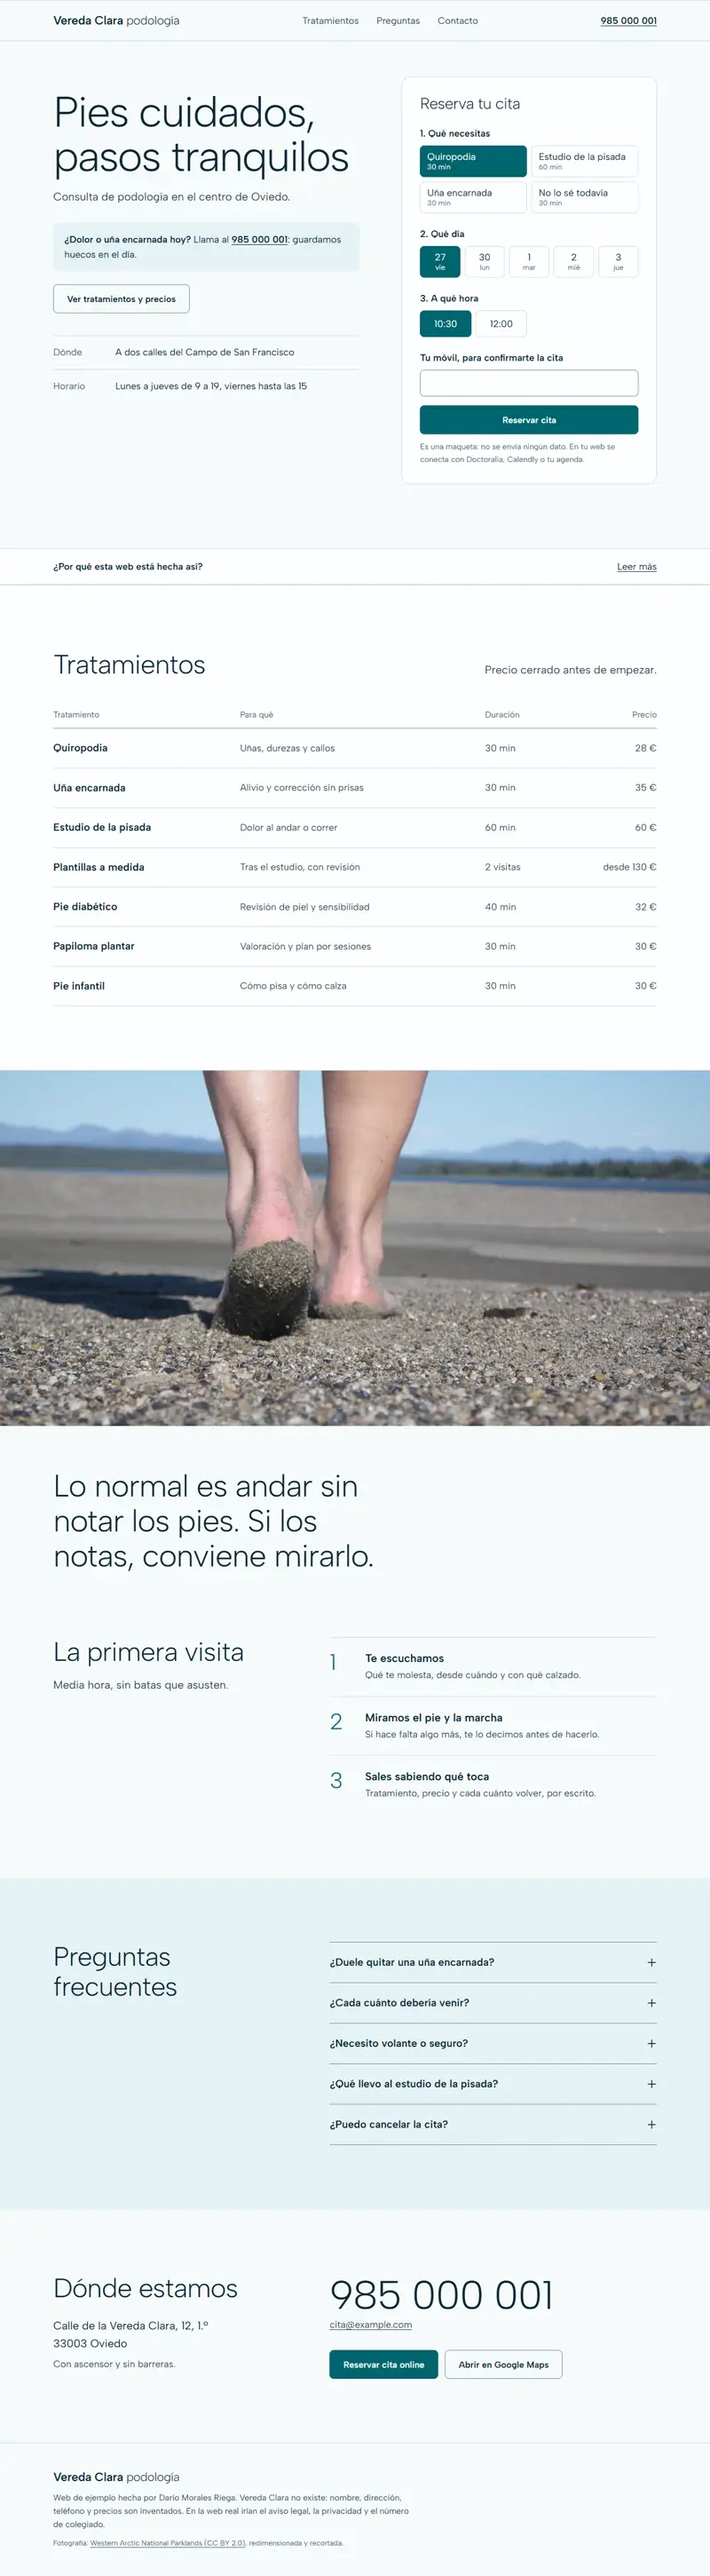
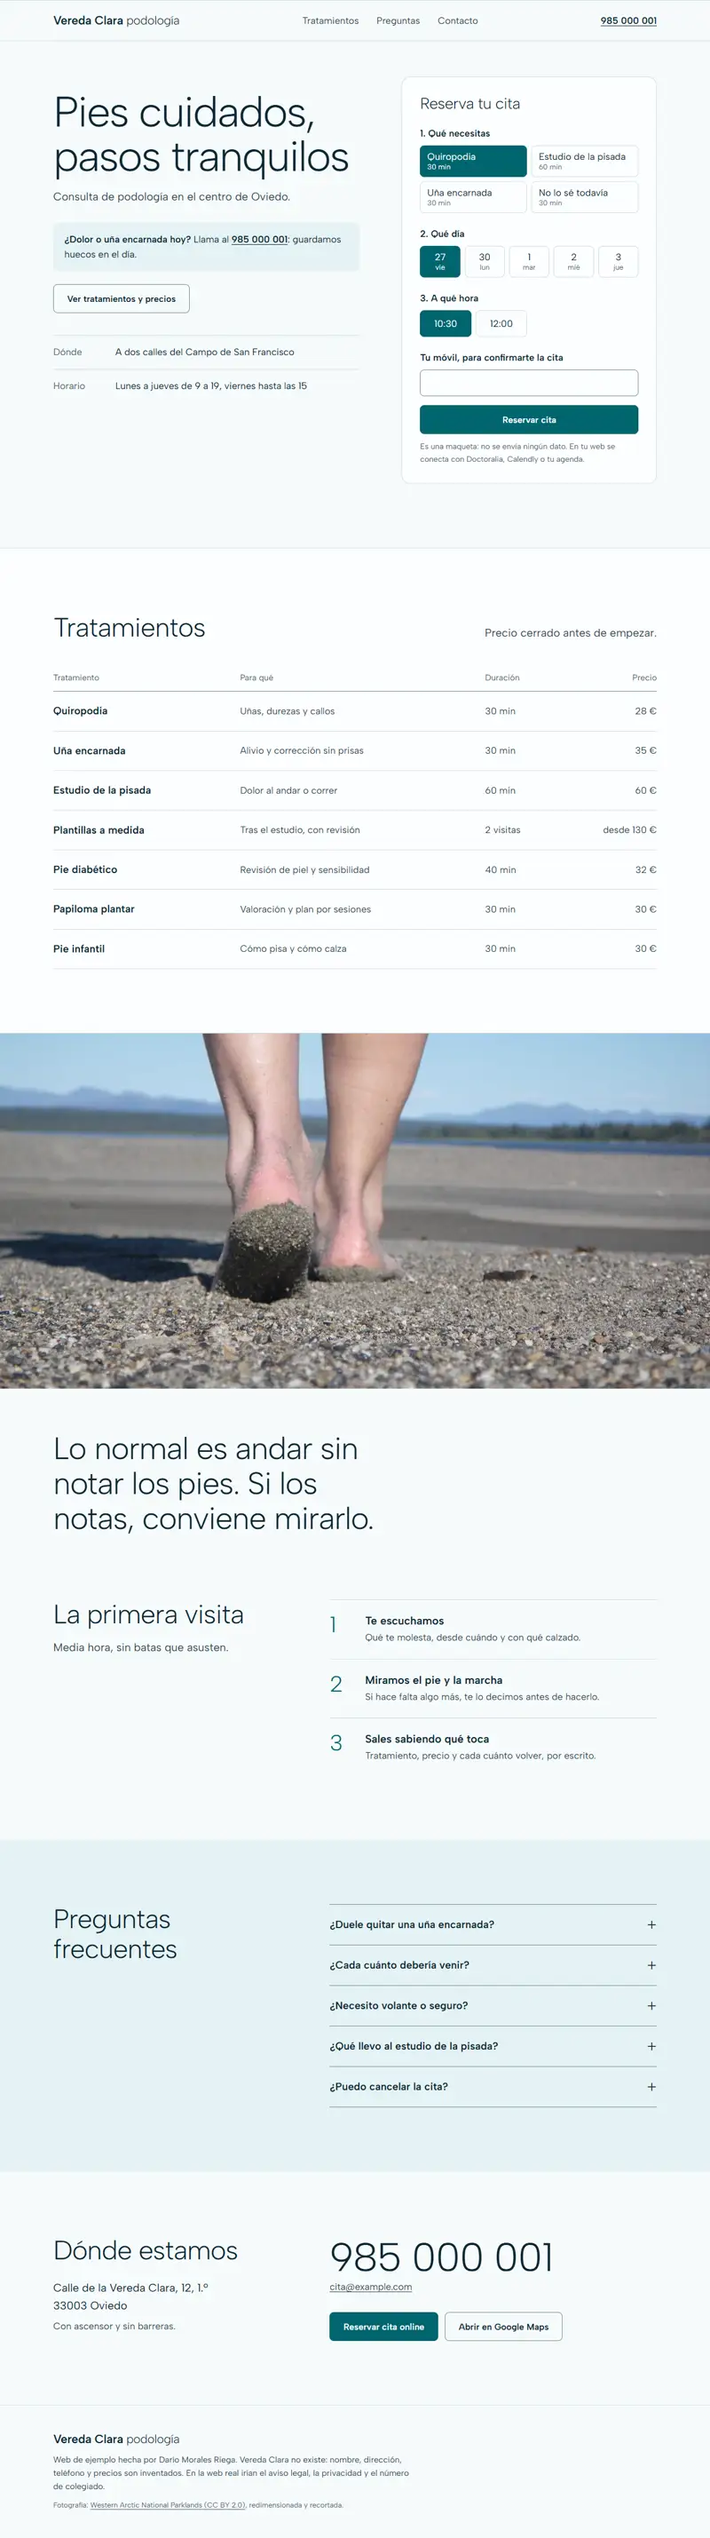
Publicar webs de ejemplo

diff --git a/index.html b/index.html
@@ -7,7 +7,7 @@
   <meta name="description" content="Diseño de páginas web en Oviedo para clínicas, consultas, reformas y otros negocios de Asturias. Trato directo con Darío Morales Riega. Mira tres ejemplos.">
   <link rel="canonical" href="https://dariodmr14.github.io/webs-ejemplos/">
   <script type="application/ld+json">
-  {"@context":"https://schema.org","@type":"Person","name":"Darío Morales Riega","jobTitle":"Diseño y desarrollo web","url":"https://dariodmr14.github.io/webs-ejemplos/","email":"mailto:dariodmr14@gmail.com","sameAs":["https://www.linkedin.com/in/dario-morales-riega"],"address":{"@type":"PostalAddress","addressLocality":"Oviedo","addressRegion":"Asturias","addressCountry":"ES"}}
+  {"@context":"https://schema.org","@type":"Person","name":"Darío Morales Riega","jobTitle":"Diseño y desarrollo web","image":"https://dariodmr14.github.io/webs-ejemplos/img/dario-528.webp","url":"https://dariodmr14.github.io/webs-ejemplos/","email":"mailto:dariodmr14@gmail.com","sameAs":["https://www.linkedin.com/in/dario-morales-riega"],"address":{"@type":"PostalAddress","addressLocality":"Oviedo","addressRegion":"Asturias","addressCountry":"ES"}}
   </script>
   <meta property="og:type" content="website">
   <meta property="og:locale" content="es_ES">
@@ -22,7 +22,13 @@
 <body>
   <a class="skip" href="#ejemplos">Saltar a los ejemplos</a>
   <header class="wrap top">
-    <p class="name">Darío Morales Riega</p>
+    <div class="me">
+      <img src="img/dario-176.webp" srcset="img/dario-176.webp 176w, img/dario-352.webp 352w, img/dario-528.webp 528w" sizes="(min-width: 40rem) 96px, 72px" width="96" height="96" alt="Foto de Darío Morales Riega" fetchpriority="high">
+      <div>
+        <p class="name">Darío Morales Riega</p>
+        <p class="role">Estudiante de Ingeniería Informática en Oviedo. Hago webs para negocios de Asturias.</p>
+      </div>
+    </div>
     <nav aria-label="Contacto">
       <a class="btn btn--line" href="https://www.linkedin.com/in/dario-morales-riega" target="_blank" rel="noopener">Mi LinkedIn</a>
       <a class="btn" href="mailto:dariodmr14@gmail.com?subject=Web%20para%20mi%20negocio">Contactar</a>
@@ -37,7 +43,7 @@
           <span class="line"><span>negocios</span></span>
           <span class="line"><span>de <em>Asturias</em></span></span>
         </h1>
-        <p class="lead">Soy Darío, de Oviedo. Hago webs a medida para que quien te busca acabe llamándote.</p>
+        <p class="lead">Hechas a medida, para que quien te busca acabe llamando, reservando o pidiendo presupuesto.</p>
         <div class="actions">
           <a class="btn btn--big" href="#ejemplos">Ver los ejemplos</a>
           <a class="btn btn--big btn--line" href="#contacto">Hablar de tu negocio</a>
@@ -52,7 +58,7 @@
 
     <section class="works wrap" id="ejemplos" aria-labelledby="e-t">
       <h2 id="e-t">Tres negocios, tres webs que no se parecen</h2>
-      <p class="hint">Míralas por dentro. Cada una explica por qué está hecha así.</p>
+      <p class="hint">Míralas por dentro. Junto a cada una, por qué está hecha así.</p>
 
       <article class="work">
         <a class="peek" href="fisio/index.html" aria-label="Abrir la web de ejemplo de fisioterapia"><img src="img/fisio-larga.webp" width="800" height="3680" alt="Recorrido por la web de ejemplo de fisioterapia" loading="lazy"></a>
@@ -73,7 +79,7 @@
           <p>Limpia y serena: reserva online lo primero y las dudas resueltas.</p>
           <details>
             <summary>Por qué está hecha así</summary>
-            <dl><div><dt>Reservar es lo primero que se ve</dt><dd>Cuantos menos pasos, más citas. Y quien busca de noche reserva sin esperar a que abráis.</dd></div><div><dt>Aviso para urgencias</dt><dd>Quien tiene dolor hoy no reserva para la semana que viene: llama.</dd></div><div><dt>Tratamientos con su nombre</dt><dd>«Uña encarnada» o «estudio de la pisada» es lo que la gente escribe en Google.</dd></div><div><dt>Preguntas frecuentes</dt><dd>Quitan el miedo antes de venir y ahorran llamadas repetidas.</dd></div><div><dt>Colores claros y letra grande</dt><dd>Transmite limpieza y se lee bien a cualquier edad.</dd></div></dl>
+            <dl><div><dt>Reservar es lo primero que se ve</dt><dd>Cuantos menos pasos, más citas: es la decisión que más clientes puede traer. Quien busca de noche reserva sin esperar a que abráis.</dd></div><div><dt>Aviso para urgencias</dt><dd>Quien tiene dolor hoy no reserva para la semana que viene: llama.</dd></div><div><dt>Tratamientos con su nombre</dt><dd>«Uña encarnada» o «estudio de la pisada» es lo que la gente escribe en Google.</dd></div><div><dt>Preguntas frecuentes</dt><dd>Quitan el miedo antes de venir y ahorran llamadas repetidas.</dd></div><div><dt>Colores claros y letra grande</dt><dd>Transmite limpieza y se lee bien a cualquier edad.</dd></div></dl>
           </details>
           <a class="work__go" href="podologia/index.html">Abrir la web</a>
         </div>
@@ -127,6 +133,7 @@
 
     <section class="about wrap" aria-labelledby="a-t">
       <h2 id="a-t">Quién las hace</h2>
+      <img class="portrait" src="img/dario-352.webp" srcset="img/dario-352.webp 352w, img/dario-528.webp 528w" sizes="220px" width="220" height="220" alt="" loading="lazy">
       <div>
         <p>Soy Darío, estudio Ingeniería Informática del Software en la Universidad de Oviedo y hago webs para negocios de la zona.</p>
         <p>Estoy buscando mis primeros clientes, así que a cada uno le dedico tiempo de verdad.</p>

diff --git a/styles.css b/styles.css
@@ -42,10 +42,13 @@ a { color: inherit; }
 .actions { display: flex; flex-wrap: wrap; gap: 12px; margin-top: 32px; }
 
 .top { display: flex; flex-wrap: wrap; justify-content: space-between; align-items: center; gap: 12px 24px; padding-block: 20px; }
-.name { font-weight: 600; font-size: 1.2rem; color: var(--color-ink); }
+.me { display: flex; align-items: center; gap: 18px; min-width: 0; animation: fade 600ms var(--ease-out) backwards; }
+.me img { width: 96px; height: 96px; flex-shrink: 0; border-radius: 50%; border: 3px solid var(--color-accent); background: var(--color-paper-2); }
+.name { font-weight: 600; font-size: 1.4rem; line-height: 1.25; color: var(--color-ink); }
+.role { max-width: 36ch; margin-top: 4px; line-height: 1.4; }
 .top nav { display: flex; gap: 8px; }
 
-.hero { display: grid; grid-template-columns: minmax(0, 5fr) minmax(0, 6fr); gap: 32px; align-items: center; min-height: min(760px, calc(100svh - 90px)); padding-block: 24px 64px; }
+.hero { display: grid; grid-template-columns: minmax(0, 5fr) minmax(0, 6fr); gap: 32px; align-items: center; min-height: min(720px, calc(100svh - 140px)); padding-block: 24px 64px; }
 h1 { font-size: clamp(3rem, 7.2vw, 6.25rem); font-weight: 600; line-height: 1; letter-spacing: -0.04em; }
 h1 em { font-style: normal; color: var(--color-accent); }
 .line { display: block; overflow: clip; padding-bottom: 0.08em; }
@@ -105,7 +108,8 @@ details dd { margin: 2px 0 0; }
 .faq details { margin: 0; border-block: 0; border-bottom: 1px solid var(--color-rule); }
 .faq details p { padding-bottom: 20px; max-width: 60ch; }
 .ask { margin-top: 16px; font-size: 1.2rem; }
-.about { display: grid; grid-template-columns: minmax(0, 1fr) minmax(0, 2fr); gap: 32px; padding-block: 56px; border-top: 1px solid var(--color-rule); }
+.portrait { width: 220px; height: 220px; border-radius: 24px; }
+.about { display: grid; grid-template-columns: minmax(0, 3fr) 220px minmax(0, 5fr); align-items: start; gap: 40px; padding-block: 56px; border-top: 1px solid var(--color-rule); }
 .about p { max-width: 56ch; font-size: 1.25rem; color: var(--color-ink); }
 .about p + p { margin-top: 16px; color: var(--color-ink-2); }
 .close { text-align: center; padding-block: 96px; border-top: 1px solid var(--color-rule); }
@@ -131,10 +135,16 @@ details dd { margin: 2px 0 0; }
   .work--flip .peek { order: 0; }
   .hero { min-height: 0; padding-block: 32px; }
   .work { margin-top: 56px; }
+  .portrait { width: 180px; height: 180px; }
   .faq { grid-template-columns: minmax(0, 1fr); }
   .gets ul, .steps ol { grid-template-columns: repeat(2, minmax(0, 1fr)); }
 }
 @media (max-width: 40rem) {
+  .me { gap: 14px; }
+  .me img { width: 72px; height: 72px; }
+  .name { font-size: 1.2rem; }
+  .role { font-size: 0.9375rem; }
+  .top nav, .top nav .btn { width: 100%; }
   .gets ul, .steps ol { grid-template-columns: minmax(0, 1fr); }
   .btn--big { width: 100%; }
 }

diff --git a/fisio/styles.css b/fisio/styles.css
@@ -161,15 +161,3 @@ address { font: 400 1.5rem/1.45 var(--font-display); color: var(--color-ink); ma
 /* Táctil */
 a, button, summary, label, input, select { touch-action: manipulation; }
 html { -webkit-tap-highlight-color: transparent; }
-
-/* «Leer más» para el dueño del negocio */
-.why { background: var(--color-card); border-block: 1px solid var(--color-rule); color: var(--color-ink-2); }
-.why details { border: 0; margin: 0; }
-.why summary { display: flex; flex-wrap: wrap; justify-content: space-between; align-items: center; gap: 4px 16px; min-height: 64px; padding-block: 12px; cursor: pointer; list-style: none; font-size: 1.0625rem; font-weight: 600; color: var(--color-ink); }
-.why summary::-webkit-details-marker { display: none; }
-.why summary::after { content: none; }
-.why__more { text-decoration: underline; text-underline-offset: 3px; font-weight: 400; }
-.why details[open] .why__more { visibility: hidden; }
-.why dl { display: grid; grid-template-columns: repeat(auto-fit, minmax(14rem, 1fr)); gap: 24px 40px; margin: 0; padding-block: 8px 32px; }
-.why dt { font-weight: 700; color: var(--color-ink); }
-.why dd { margin: 4px 0 0; }

diff --git a/reformas/index.html b/reformas/index.html
@@ -50,16 +50,6 @@
       </div>
     </section>
 
-    <aside class="why" aria-label="Notas para el dueño del negocio">
-      <div class="wrap">
-        <details>
-          <summary><span>¿Por qué esta web está hecha así?</span> <span class="why__more">Leer más</span></summary>
-          <dl><div><dt>Antes y después</dt><dd>Nadie contrata una reforma sin ver cómo quedan las obras.</dd></div><div><dt>Precios «desde» y qué incluye</dt><dd>El miedo es al sobrecoste. Decirlo claro filtra curiosos y da confianza.</dd></div><div><dt>Presupuesto sin llamar</dt><dd>Muchos comparan por la noche. El formulario recoge lo justo para saber si la obra encaja.</dd></div><div><dt>Zonas donde trabajáis</dt><dd>Evita llamadas de fuera y ayuda a salir al buscar «reformas» más el nombre del concejo.</dd></div><div><dt>Cómo se trabaja, paso a paso</dt><dd>El miedo en una obra son los retrasos y los extras. Explicarlo genera confianza.</dd></div></dl>
-        </details>
-      </div>
-    </aside>
-
-
     <section class="ba" id="obras" aria-labelledby="ba-t">
       <div class="wrap">
         <div class="head">

diff --git a/podologia/index.html b/podologia/index.html
@@ -81,16 +81,6 @@
       </div>
     </section>
 
-    <aside class="why" aria-label="Notas para el dueño del negocio">
-      <div class="wrap">
-        <details>
-          <summary><span>¿Por qué esta web está hecha así?</span> <span class="why__more">Leer más</span></summary>
-          <dl><div><dt>Reservar es lo primero que se ve</dt><dd>Cuantos menos pasos, más citas. Y quien busca de noche reserva sin esperar a que abráis.</dd></div><div><dt>Aviso para urgencias</dt><dd>Quien tiene dolor hoy no reserva para la semana que viene: llama.</dd></div><div><dt>Tratamientos con su nombre</dt><dd>«Uña encarnada» o «estudio de la pisada» es lo que la gente escribe en Google.</dd></div><div><dt>Preguntas frecuentes</dt><dd>Quitan el miedo antes de venir y ahorran llamadas repetidas.</dd></div><div><dt>Colores claros y letra grande</dt><dd>Transmite limpieza y se lee bien a cualquier edad.</dd></div></dl>
-        </details>
-      </div>
-    </aside>
-
-
     <section class="treat" id="tratamientos" aria-labelledby="t-t">
       <div class="wrap">
         <div class="head">

diff --git a/podologia/styles.css b/podologia/styles.css
@@ -166,15 +166,3 @@ html { -webkit-tap-highlight-color: transparent; }
   html { scroll-padding-bottom: 96px; }
   .foot { padding-bottom: 120px; }
 }
-
-/* «Leer más» para el dueño del negocio */
-.why { background: var(--color-card); border-block: 1px solid var(--color-rule); color: var(--color-ink-2); }
-.why details { border: 0; margin: 0; }
-.why summary { display: flex; flex-wrap: wrap; justify-content: space-between; align-items: center; gap: 4px 16px; min-height: 64px; padding-block: 12px; cursor: pointer; list-style: none; font-size: 1.0625rem; font-weight: 600; color: var(--color-ink); }
-.why summary::-webkit-details-marker { display: none; }
-.why summary::after { content: none; }
-.why__more { text-decoration: underline; text-underline-offset: 3px; font-weight: 400; }
-.why details[open] .why__more { visibility: hidden; }
-.why dl { display: grid; grid-template-columns: repeat(auto-fit, minmax(14rem, 1fr)); gap: 24px 40px; margin: 0; padding-block: 8px 32px; }
-.why dt { font-weight: 700; color: var(--color-ink); }
-.why dd { margin: 4px 0 0; }

diff --git a/reformas/styles.css b/reformas/styles.css
@@ -202,15 +202,3 @@ html { -webkit-tap-highlight-color: transparent; }
 @media (max-width: 60rem) {
   .top__in .btn--small { display: none; }
 }
-
-/* «Leer más» para el dueño del negocio */
-.why { background: var(--color-white); border-block: 1px solid var(--color-rule); color: var(--color-ink-2); }
-.why details { border: 0; margin: 0; }
-.why summary { display: flex; flex-wrap: wrap; justify-content: space-between; align-items: center; gap: 4px 16px; min-height: 64px; padding-block: 12px; cursor: pointer; list-style: none; font-size: 1.0625rem; font-weight: 600; color: var(--color-ink); }
-.why summary::-webkit-details-marker { display: none; }
-.why summary::after { content: none; }
-.why__more { text-decoration: underline; text-underline-offset: 3px; font-weight: 400; }
-.why details[open] .why__more { visibility: hidden; }
-.why dl { display: grid; grid-template-columns: repeat(auto-fit, minmax(14rem, 1fr)); gap: 24px 40px; margin: 0; padding-block: 8px 32px; }
-.why dt { font-weight: 700; color: var(--color-ink); }
-.why dd { margin: 4px 0 0; }

diff --git a/fisio/index.html b/fisio/index.html
@@ -55,16 +55,6 @@
       </div>
     </section>
 
-    <aside class="why" aria-label="Notas para el dueño del negocio">
-      <div class="wrap">
-        <details>
-          <summary><span>¿Por qué esta web está hecha así?</span> <span class="why__more">Leer más</span></summary>
-          <dl><div><dt>Pedir cita, a un toque</dt><dd>Quien tiene dolor quiere cita ya. WhatsApp y teléfono están arriba y, en el móvil, siempre a la vista.</dd></div><div><dt>Precios a la vista</dt><dd>Es lo que más se pregunta antes de reservar. Si no aparece, mucha gente no llama.</dd></div><div><dt>Quién te va a tratar</dt><dd>En fisioterapia se elige a una persona, no un local.</dd></div><div><dt>Cómo llegar y horario</dt><dd>Quien busca «fisio cerca» decide por barrio y por hora. También ayuda a salir en Google.</dd></div></dl>
-        </details>
-      </div>
-    </aside>
-
-
     <section class="zonas" aria-labelledby="zonas-t">
       <div class="wrap">
         <dl class="datos">
